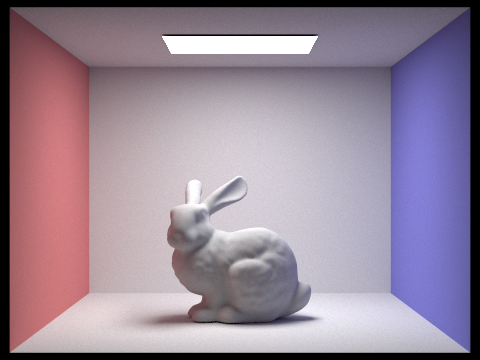
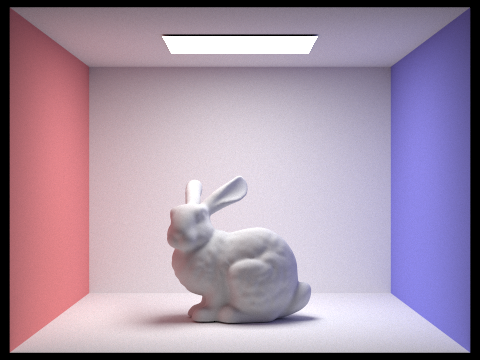
finish part 5

diff --git a/proj3-1/index.html b/proj3-1/index.html
@@ -247,15 +247,25 @@
           <div>
             <p>Adaptive sampling improves the efficiency of rendering. Before, we would take a fixed number of samples from each pixel for our Monte Carlo integration algorithm, regardless of how much detail is present in the scene. This can result in images that are noisy or blurry, particularly in areas with high contrast or fine details. Adaptive sampling works by dynamically adjusting the number of samples taken in each pixel based on the complexity of the scene. In areas with high detail or contrast, more samples are taken to capture the fine details and reduce noise. In areas with less detail or lower contrast, fewer samples are taken to reduce rendering time without sacrificing image quality. The algorithm gradually increases the number of samples until a desired level of image quality is achieved. This approach significantly minimized rendering time and improved the overall quality of the image.</p>
             <p>In our implementation of adaptive sampling, we followed the specifications and computed the illuminance of estimated radiance using the <code>Vector3D::illum()</code> function. We also stored two running sums, <code>s1</code> and <code>s2</code>, where <code>s1</code> holds the illuminances and <code>s2</code> holds the squares of the illuminances. After every <code>samplesPerBatch</code> iterations, we perform a convergence check by calculating the mean and variance using <code>s1</code> and <code>s2</code> to determine if the condition <code>I <= maxTolerance * 𝜇</code> has been satisfied. If it has, we break out of the loop and update the <code>sampleBuffer</code> and <code>sampleCountBuffer</code> accordingly.</p>
-            <p><strong>TODO REPLACE IMAGES</strong></p>
+            <p>Here are two scenes rendered with 2048 samples per pixel, 1 sample per light, and max ray depth of 5 along with a heatmap of their respective sampling rates.</p>
             <div class="row">
 						<div class="column">
 						  <img src="images/adaptive_bunny.png" width="480px" style="margin: 5px 5px 5px 5px;">
-						  <figcaption>bunny</figcaption>
+						  <figcaption>noise-free bunny render</figcaption>
 						</div>
 						<div class="column">
-						  <img src="images/bunny_rate.png" width="480px" style="margin: 5px 5px 5px 5px;">
-						  <figcaption>bunny rate</figcaption>
+						  <img src="images/adaptive_bunny_rate.png" width="480px" style="margin: 5px 5px 5px 5px;">
+						  <figcaption>sampling rate heatmap of bunny</figcaption>
+						</div>
+					  </div>
+					  <div class="row">
+						<div class="column">
+						  <img src="images/adaptive_banana.png" width="480px" style="margin: 5px 5px 5px 5px;">
+						  <figcaption>noise-free banana render</figcaption>
+						</div>
+						<div class="column">
+						  <img src="images/adaptive_banana_rate.png" width="480px" style="margin: 5px 5px 5px 5px;">
+						  <figcaption>sampling rate heatmap of banana</figcaption>
 						</div>
 					  </div>
 
